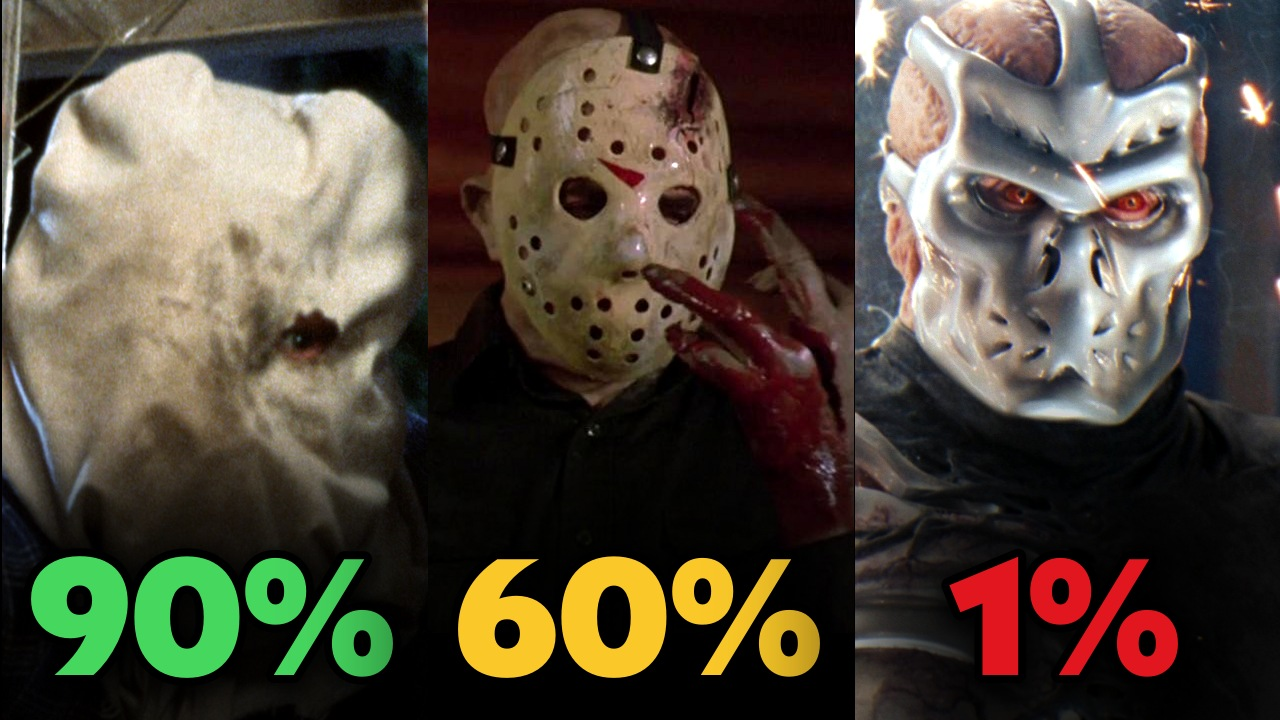
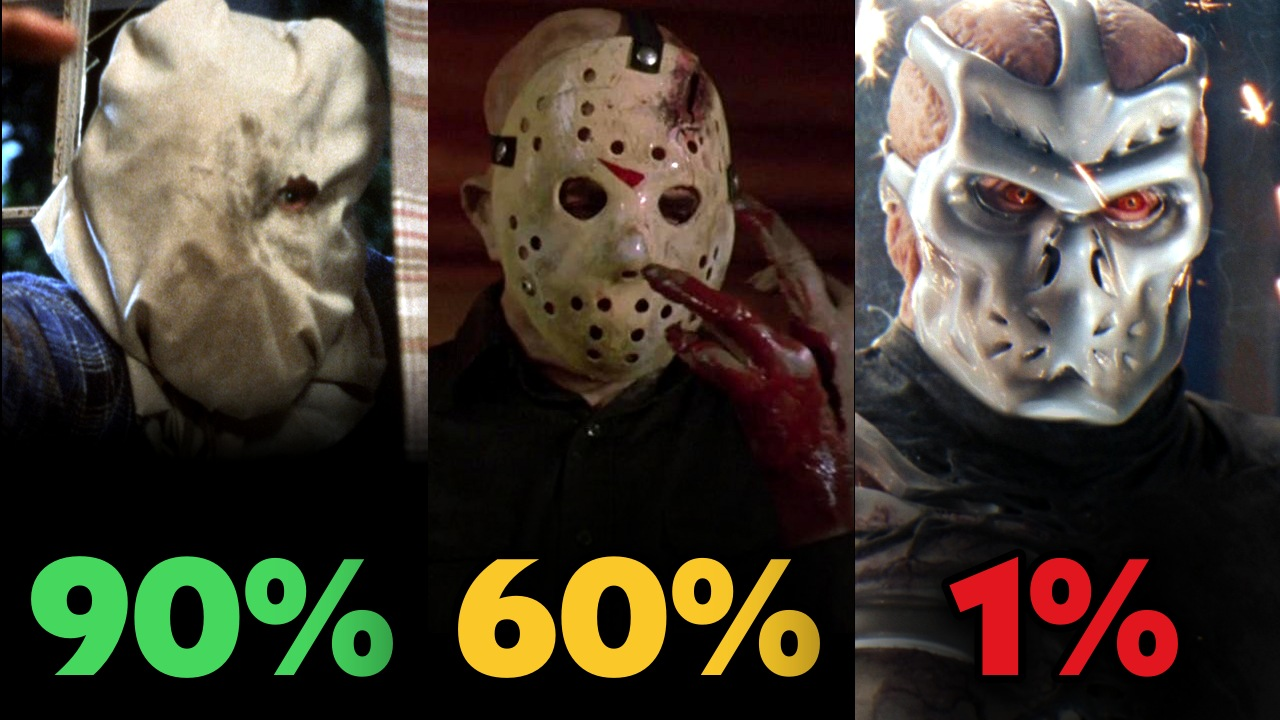
Instruction 444 EP02: thumbnail A, 90% panel zoomed out to match the other heads
Claude-Session: https://claude.ai/code/session_01Lpx9jRUSNpAaRnVkec5sMA

Changed region(s): [[0.0, 0.0, 0.3438, 0.7944], [0.1562, 0.9778, 0.1875, 1.0]]

diff --git a/concepts/i444/ep02/thumbs_v3.py b/concepts/i444/ep02/thumbs_v3.py
@@ -26,9 +26,21 @@ def eye_align(n, el, er, mid=(640, 300), dist=260, size=(W, H)):
     c = cx - a * mid[0] - b * mid[1]; f_ = cy - d_ * mid[0] - e * mid[1]
     return im.transform(size, Image.AFFINE, (a, b, c, d_, e, f_), Image.BICUBIC, fillcolor=(0, 0, 0, 255))
 
+def place(n, pt, sc, at, size):
+    # scale the still by sc and crop so pt (scaled-1000 coords) lands at `at`
+    im = load(n); k = im.size[0] / 1000; im = im.resize((int(im.size[0] * sc), int(im.size[1] * sc)), Image.LANCZOS)
+    x0 = int(pt[0] * k * sc - at[0]); y0 = int(pt[1] * k * sc - at[1])
+    out = im.crop((x0, y0, x0 + size[0], y0 + size[1]))
+    bot = y0 + size[1] - im.size[1]  # rows past the still: fade the still's bottom into black
+    if bot > 0:
+        h0 = size[1] - bot; g = Image.new('L', size, 0); ImageDraw.Draw(g).rectangle([0, h0 - 4, size[0], size[1]], fill=255)
+        for i in range(160): ImageDraw.Draw(g).line([(0, h0 - 160 + i), (size[0], h0 - 160 + i)], fill=int(255 * (i / 160) ** 1.5))
+        out.paste((0, 0, 0, 255), (0, 0), g)
+    return out
+
 # A: three Jasons, faces centred and clear, 90% -> 60% -> 1%
 im = Image.new('RGBA', (W, H), (0, 0, 0, 255)); pw = W // 3
-cols = [(fit(load('5SJyE25gsRGa7edJSAKwd7ATkxd'), 0.6, 0.45, pw, H, 1.0), '90%', GREEN),
+cols = [(place('5SJyE25gsRGa7edJSAKwd7ATkxd', (600, 270), 0.38, (pw // 2 + 15, 200), (pw, H)), '90%', GREEN),
         (eye_align(P4, (466, 270), (560, 270), (pw // 2, 260), 120, (pw, H)), '60%', YEL),
         (eye_align(UBER, (455, 156), (545, 156), (pw // 2, 200), 120, (pw, H)), '1%', RED)]
 for k, (p, pct, col) in enumerate(cols):
